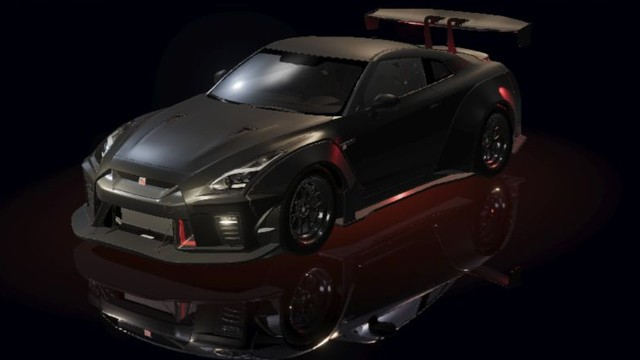
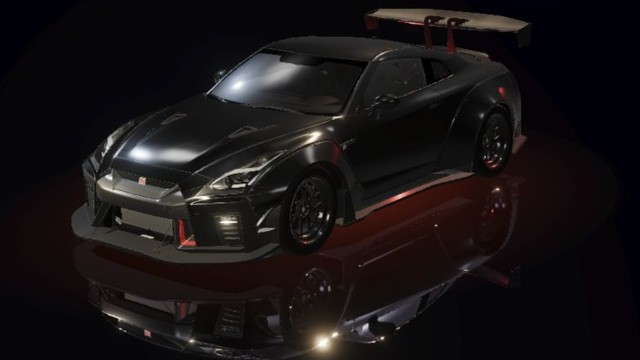
fix: give R35 body paint a glossy finish

diff --git a/e2e/garage.spec.ts b/e2e/garage.spec.ts
@@ -32,16 +32,9 @@ for (const width of [1440, 390]) {
     await expect(
       picker.getByRole('button', { name: 'Show Toyota GR Supra, A90 Modified', exact: true }),
     ).toHaveCount(0);
-    await picker
-      .getByRole('button', { name: 'Show Nissan GT-R Aimgain, R35 Type 2', exact: true })
-      .click();
-    await expect(browse).toHaveAccessibleName('Browse cars. Nissan GT-R Aimgain, R35 Type 2');
-    await expect(page.locator('.car-choice-status').first()).toHaveText('', { timeout: 60_000 });
-    await expect.poll(() => new URL(page.url()).searchParams.get('car')).toBe('17');
-    await page.reload();
-    await expect(browse).toHaveAccessibleName('Browse cars. Nissan GT-R Aimgain, R35 Type 2');
-    await expect(page.locator('.car-choice-status').first()).toHaveText('', { timeout: 60_000 });
-    await browse.click();
+    await expect(
+      picker.getByRole('button', { name: 'Show Nissan GT-R Aimgain, R35 Type 2', exact: true }),
+    ).toBeVisible();
     await page.keyboard.press('End');
     await expect(
       picker.getByRole('button', { name: 'Show Red Bull RB16B, 2021 F1', exact: true }),
@@ -73,6 +66,27 @@ for (const width of [1440, 390]) {
     await page.reload();
     await expect(browse).toHaveAccessibleName('Browse cars. Datsun 280Z, S30');
     await expect(page.getByRole('button', { name: 'Pop-up headlights' })).toHaveCount(0);
+    await expect(page.locator('.car-choice-status').first()).toHaveText('', { timeout: 60_000 });
+  });
+
+  test(`R35 selection survives a reload at ${width}px`, async ({ page }) => {
+    await page.setViewportSize({ width, height: 900 });
+    await page.route('**/_vercel/**', (route) =>
+      route.fulfill({ body: '', contentType: 'application/javascript' }),
+    );
+    await page.goto('/');
+    await expect(page.locator('.car-choice-status').first()).toHaveText('', { timeout: 60_000 });
+    const browse = page.getByRole('button', { name: /Browse cars\./ }).filter({ visible: true });
+    await browse.click();
+    await page
+      .getByRole('dialog', { name: 'Pick your ride.' })
+      .getByRole('button', { name: 'Show Nissan GT-R Aimgain, R35 Type 2', exact: true })
+      .click();
+    await expect(browse).toHaveAccessibleName('Browse cars. Nissan GT-R Aimgain, R35 Type 2');
+    await expect(page.locator('.car-choice-status').first()).toHaveText('', { timeout: 60_000 });
+    await expect.poll(() => new URL(page.url()).searchParams.get('car')).toBe('17');
+    await page.reload();
+    await expect(browse).toHaveAccessibleName('Browse cars. Nissan GT-R Aimgain, R35 Type 2');
     await expect(page.locator('.car-choice-status').first()).toHaveText('', { timeout: 60_000 });
   });
 }

diff --git a/src/three/modelFinishes.ts b/src/three/modelFinishes.ts
@@ -27,22 +27,27 @@ function prepareFerrariF1Finish(model: Object3D): void {
   });
 }
 
-function prepareAventadorPaint(model: Object3D): void {
+function prepareGlossPaint(
+  model: Object3D,
+  materialName: string,
+  roughness: number,
+  coatRoughness: number,
+): void {
   const replacements = new Map<MeshStandardMaterial, MeshPhysicalMaterial>();
   model.traverse((object) => {
     const mesh = object as Mesh;
     if (!mesh.isMesh) return;
     const prepare = (material: MeshStandardMaterial) => {
-      if (!material.isMeshStandardMaterial || material.name !== 'RED_PAINT') return material;
+      if (!material.isMeshStandardMaterial || material.name !== materialName) return material;
       if (replacements.has(material)) return replacements.get(material)!;
       const finish =
         material instanceof MeshPhysicalMaterial ? material : new MeshPhysicalMaterial();
       // Copy the standard surface without overwriting the physical material's coat defaults.
       if (finish !== material) MeshStandardMaterial.prototype.copy.call(finish, material);
       finish.defines.PHYSICAL = '';
-      finish.roughness = 0.23;
+      finish.roughness = roughness;
       finish.clearcoat = 1;
-      finish.clearcoatRoughness = 0.08;
+      finish.clearcoatRoughness = coatRoughness;
       finish.needsUpdate = true;
       replacements.set(material, finish);
       return finish;
@@ -58,7 +63,10 @@ function prepareAventadorPaint(model: Object3D): void {
 
 export function prepareModelFinish(model: Object3D, file: string): void {
   if (file === 'ferrari-f1-75.glb') return prepareFerrariF1Finish(model);
-  if (file === 'lamborghini-aventador.glb') return prepareAventadorPaint(model);
+  if (file === 'lamborghini-aventador.glb')
+    return prepareGlossPaint(model, 'RED_PAINT', 0.23, 0.08);
+  if (file === 'nissan-r35-aimgain.glb')
+    return prepareGlossPaint(model, 'nNissan_GTRTNR4_2017PaintTNR_Material_002', 0.18, 0.06);
   if (file !== 'ferrari-296-gt3.glb') return;
   const visited = new Set<MeshPhysicalMaterial>();
   model.traverse((object) => {

diff --git a/src/three/modelFinishes.test.ts b/src/three/modelFinishes.test.ts
@@ -92,6 +92,38 @@ it('keeps physical paint reusable and limits the coat to this car and body mater
   expect(trim.roughness).toBe(0.65);
 });
 
+it('sharpens R35 body reflections while retaining its color, maps and surrounding finishes', () => {
+  const model = new Group();
+  const paint = new MeshPhysicalMaterial({
+    color: '#171717',
+    metalness: 1,
+    roughness: 0.32762,
+    clearcoat: 0.46781,
+    clearcoatRoughness: 0.58362,
+    map: new Texture(),
+  });
+  paint.name = 'nNissan_GTRTNR4_2017PaintTNR_Material_002';
+  const trim = new MeshPhysicalMaterial({ roughness: 0.7, clearcoat: 0.3 });
+  trim.name = 'nNissan_GTRTNR4_2017Carbon1_Material_004';
+  const color = paint.color.clone();
+  const map = paint.map;
+  const mesh = new Mesh(undefined, [paint, trim]);
+  model.add(mesh);
+  prepareModelFinish(model, 'other.glb');
+  expect(paint.roughness).toBe(0.32762);
+  prepareModelFinish(model, 'nissan-r35-aimgain.glb');
+  prepareModelFinish(model, 'nissan-r35-aimgain.glb');
+  expect(mesh.material).toEqual([paint, trim]);
+  expect(paint.roughness).toBeLessThan(0.2);
+  expect(paint.clearcoat).toBe(1);
+  expect(paint.clearcoatRoughness).toBeLessThan(0.1);
+  expect(paint.color).toEqual(color);
+  expect(paint.map).toBe(map);
+  expect(paint.metalness).toBe(1);
+  expect(trim.roughness).toBe(0.7);
+  expect(trim.clearcoat).toBe(0.3);
+});
+
 it('keeps Ferrari F1 livery, carbon and rubber dielectric without repainting textures or rims', () => {
   const model = new Group();
   const body = new MeshPhysicalMaterial({

diff --git a/art/ui-qa/october-23/r35-gloss/README.md b/art/ui-qa/october-23/r35-gloss/README.md
@@ -1,0 +1,30 @@
+# R35 body gloss review
+
+Reviewed on October 23, 2026 using production builds in Chrome. The baseline is
+commit `52644ab`. Both clean dusk captures use the same car, source graphite
+color, camera pose, lighting and 1440 × 900 viewport.
+
+- [Comparison](comparison.jpg) places equal crops of the baseline and revised
+  render side by side. [Before](before-dusk.jpg) and [after](after-dusk.jpg) retain
+  the complete clean captures.
+- [Desktop night](desktop-night.jpg) shows the revised body in the portfolio.
+- [Phone night](phone-night.jpg) checks the finish and framing at 390 × 844.
+
+The named R35 body material uses roughness 0.18, clearcoat 1 and clearcoat
+roughness 0.06. Hood and fender reflections become tighter, retaining source
+body color, metalness, texture maps and surrounding material finishes. The
+Aventador continues using its existing gloss settings through the shared paint
+helper. The picker preview is refreshed from the revised clean dusk rendering.
+
+The GLB geometry, texture pixels and asset hash are unchanged. This is a runtime
+material adaptation, recorded in the [license evidence](../../../../docs/model-license-evidence.json)
+and [asset notice](../../../../public/models/nissan-r35-aimgain.LICENSE.txt).
+A negative regression control fails when the R35 finish dispatch is disabled and
+passes when restored. The material tests also guard authored color and maps,
+unrelated trim, repeated application and isolation to this car.
+
+The garage navigation tour and R35 selection/reload checks use separate cases
+so sequential model loading fits the existing test timeout. Both retain their
+selection, shared URL, loading and reload assertions.
+
+Physical-device performance and screen-reader audio were not reviewed.

diff --git a/docs/architecture.md b/docs/architecture.md
@@ -57,8 +57,10 @@ panels so wheel, chassis and trim materials retain their authored colors. The ad
 road cars target explicit paint materials. The F1-75 replaces the 296 GT3 in the
 picker; both keep permanent registry identities for shared URLs. The selected vecarz
 Aimgain R35 replaces the modified A90 Supra in the picker, with that Supra retained
-for existing links. Its source finish, separate wheel/trim materials and flat
-splitter meshes are preserved, and repaint targets only its named body material. Race cars preserve
+for existing links. Its source body color, separate wheel/trim materials and flat
+splitter meshes are preserved, and repaint targets only its named body material.
+That body receives lower roughness and a smooth clearcoat for glossy reflections,
+retaining its color, metalness and maps. Race cars preserve
 flat splitter and floor meshes that could resemble a baked ground plane; both F1
 cars omit synthetic road lights.
 The 296 GT3 declares an orientation offset to normalize its diagonal source pose

diff --git a/docs/quality.md b/docs/quality.md
@@ -36,7 +36,9 @@ checks enable touch input. A screenshot pixel check verifies that the default ca
 actually renders; it excludes the paint controls so those cannot disguise a blank
 canvas. A reflection check guards against dark halos cutting into the floor glow
 beside bright headlights. Garage checks cover retired shared links, curated picker
-focus and wrapping, numbered selection, reloads and a visible clean-capture scene. The clock is fixed for consistent studio lighting.
+focus and wrapping, numbered selection, reloads and a visible clean-capture scene.
+R35 selection and reload run separately from the multi-car navigation tour to
+bound each test’s model-loading work without raising its timeout. The clock is fixed for consistent studio lighting.
 
 Axe checks WCAG A and AA rules on the page and open dialogs. The tests use the real
 models, images and interface. Local telemetry endpoints are stubbed because they

diff --git a/docs/model-licenses.md b/docs/model-licenses.md
@@ -197,7 +197,10 @@ material parameters, hierarchy, texture dimensions and RGBA pixels are retained.
 Lossless meshopt and verified lossless WebP encoding reduce the reference GLB
 from 22,365,024 to 10,810,140 bytes, with no decoded validation errors or warnings.
 There are no animation clips. Flat splitter and underbody meshes remain visible;
-optional paint changes target only the named body material.
+optional paint changes target only the named body material. At runtime, that body
+material uses lower roughness and a smooth full clearcoat for sharper reflections,
+retaining its source color, metalness and maps. Wheel, tire, carbon and glass
+finishes retain their authored settings.
 
 The selected archive’s license.txt matches vecarz’s CC BY 4.0 listing. Its credited
 Outlaw Games source and embedded original-upload metadata use CC BY-NC 4.0.
